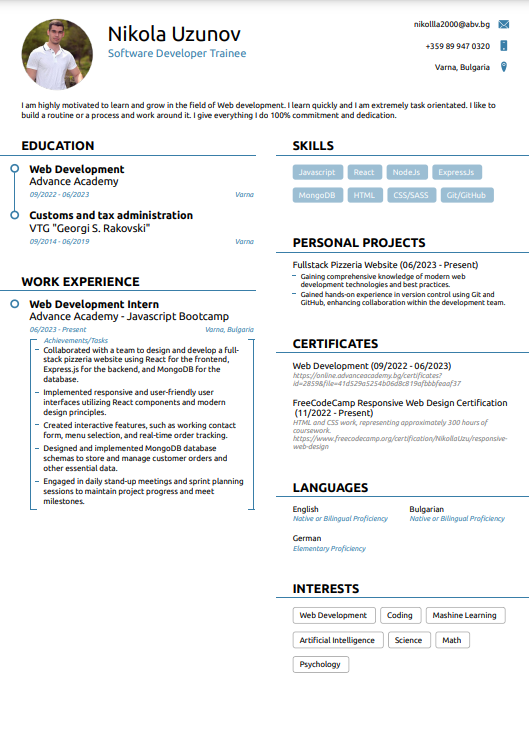
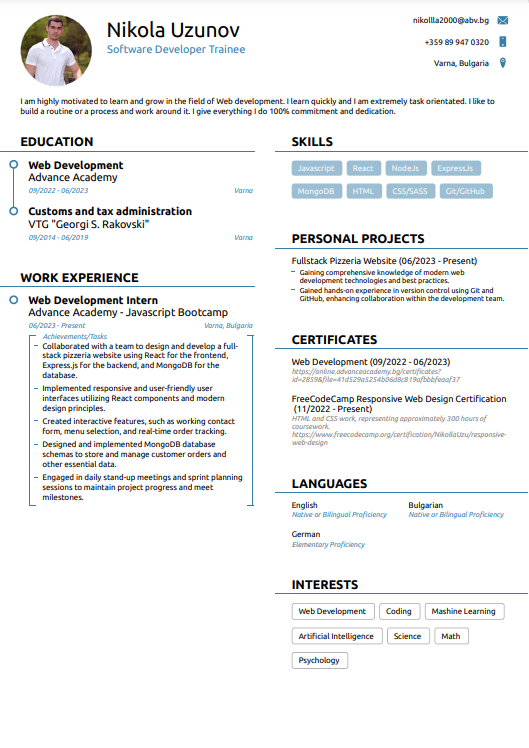
Created most of the styles for the CV Section

diff --git a/client/src/Components/CV/CvSectionStyles.scss b/client/src/Components/CV/CvSectionStyles.scss
@@ -1,0 +1,61 @@
+@import "../../index.scss";
+
+.cv-section-wrapper {
+    padding: 100px 0;
+
+    .cv-image-wrapper {
+        padding: 50px;
+        box-shadow: 0px 0px 29px -4px rgba(0,0,0,0.75);
+        text-align: center;
+
+        img {
+            display: inline-block;
+            max-width: 100%;
+        }
+    }
+
+    h2 {
+        color: #131058;
+        font-size: 3em;
+        margin-top:40px;
+    }
+
+    p {
+        color:#666;
+        line-height: 30px;
+        margin-bottom:30px;
+    }
+
+    ul {
+        list-style: none;
+
+        li {
+            padding-bottom: 15px;
+            padding-left: 20px;
+            position: relative;
+
+            &::before {
+                position: absolute;
+                left: 0;
+                top: 4px;
+                width: 8px;
+                height: 8px;
+                background: $primary-pink;
+                content: "";
+                border-radius: 50%;
+            }
+        }
+    }
+
+    button {
+        background-color: $primary-pink;
+        border-radius: 0;
+
+        a {
+            text-decoration: none;
+            text-transform: capitalize;
+            color:$primary-white;
+            padding: 17px 40px 13px;
+        }
+    }
+}

diff --git a/client/src/index.scss b/client/src/index.scss
@@ -20,3 +20,4 @@ $secondary-dark-grey: #212121;
 $blue-ish-purple: #d8d6f3;
 $background-dark-blue: #070640;
 $page-header: #121127;
+$primary-pink: #fe3e57;

diff --git a/client/src/Components/CV/CvSection.jsx b/client/src/Components/CV/CvSection.jsx
@@ -1,4 +1,5 @@
 import { Container, Row, Col, Button } from "react-bootstrap";
+import "./CvSectionStyles.scss"
 
 const CvSection = () => {
     return (
